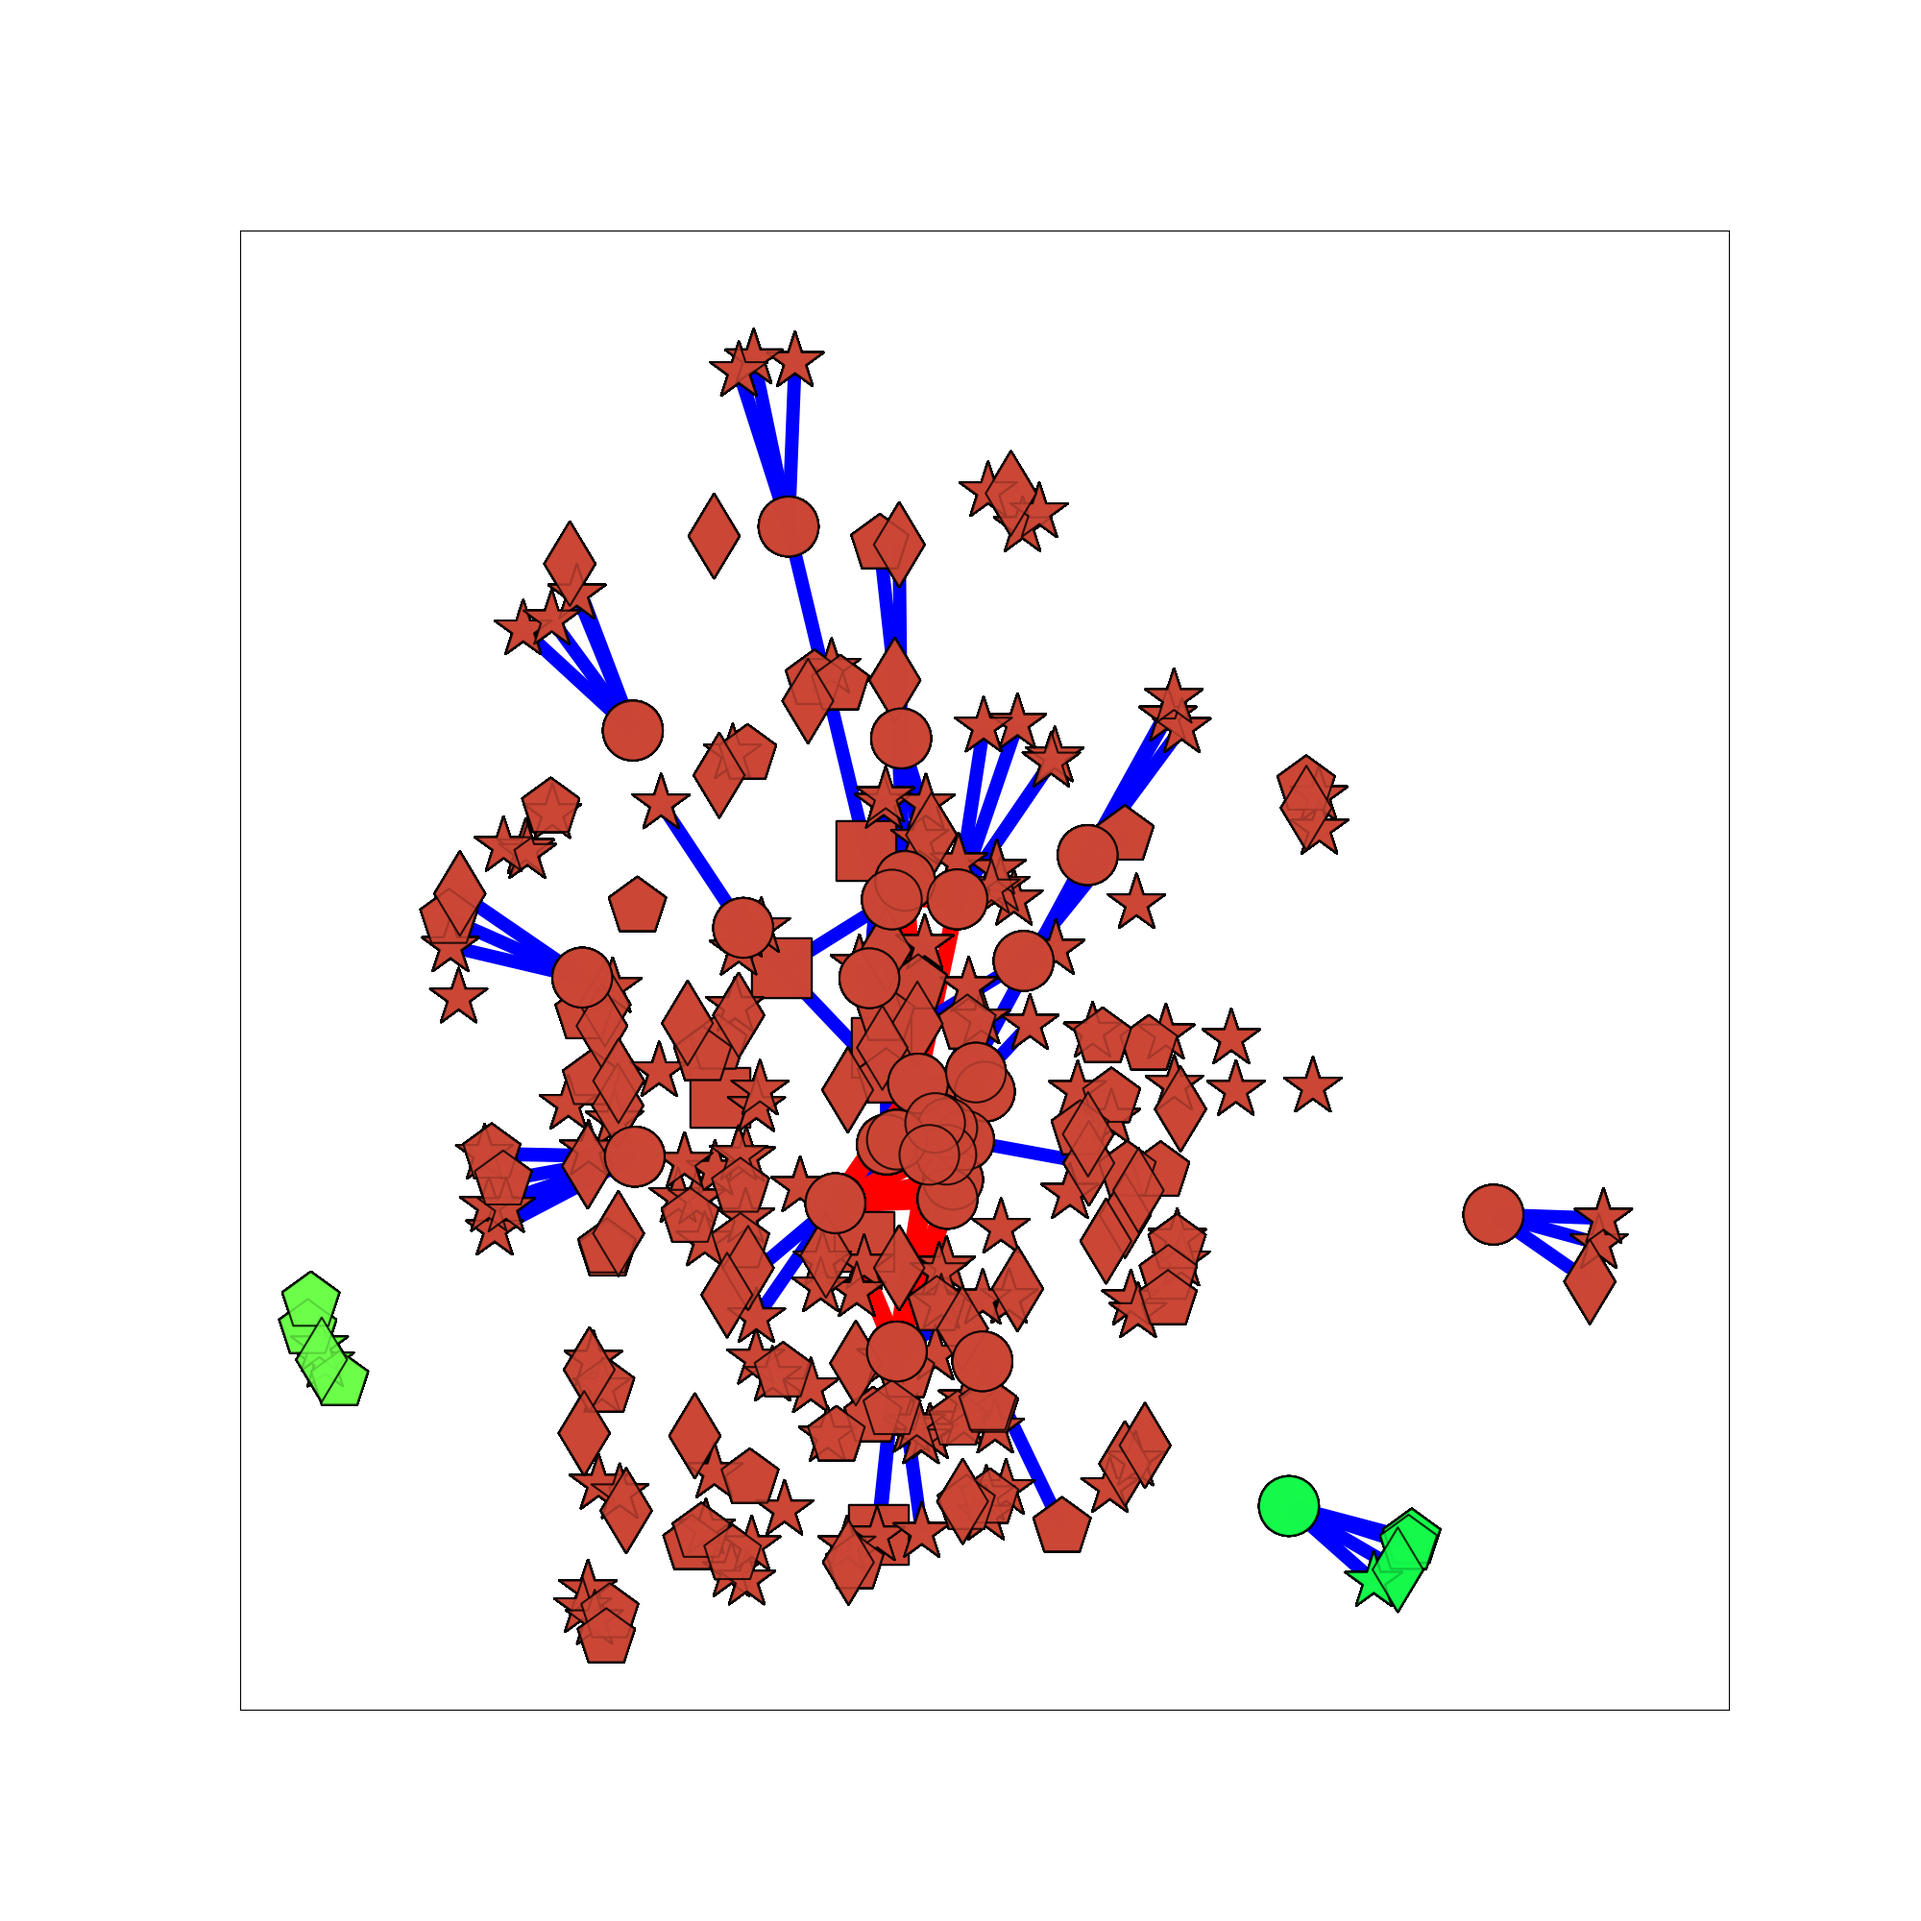
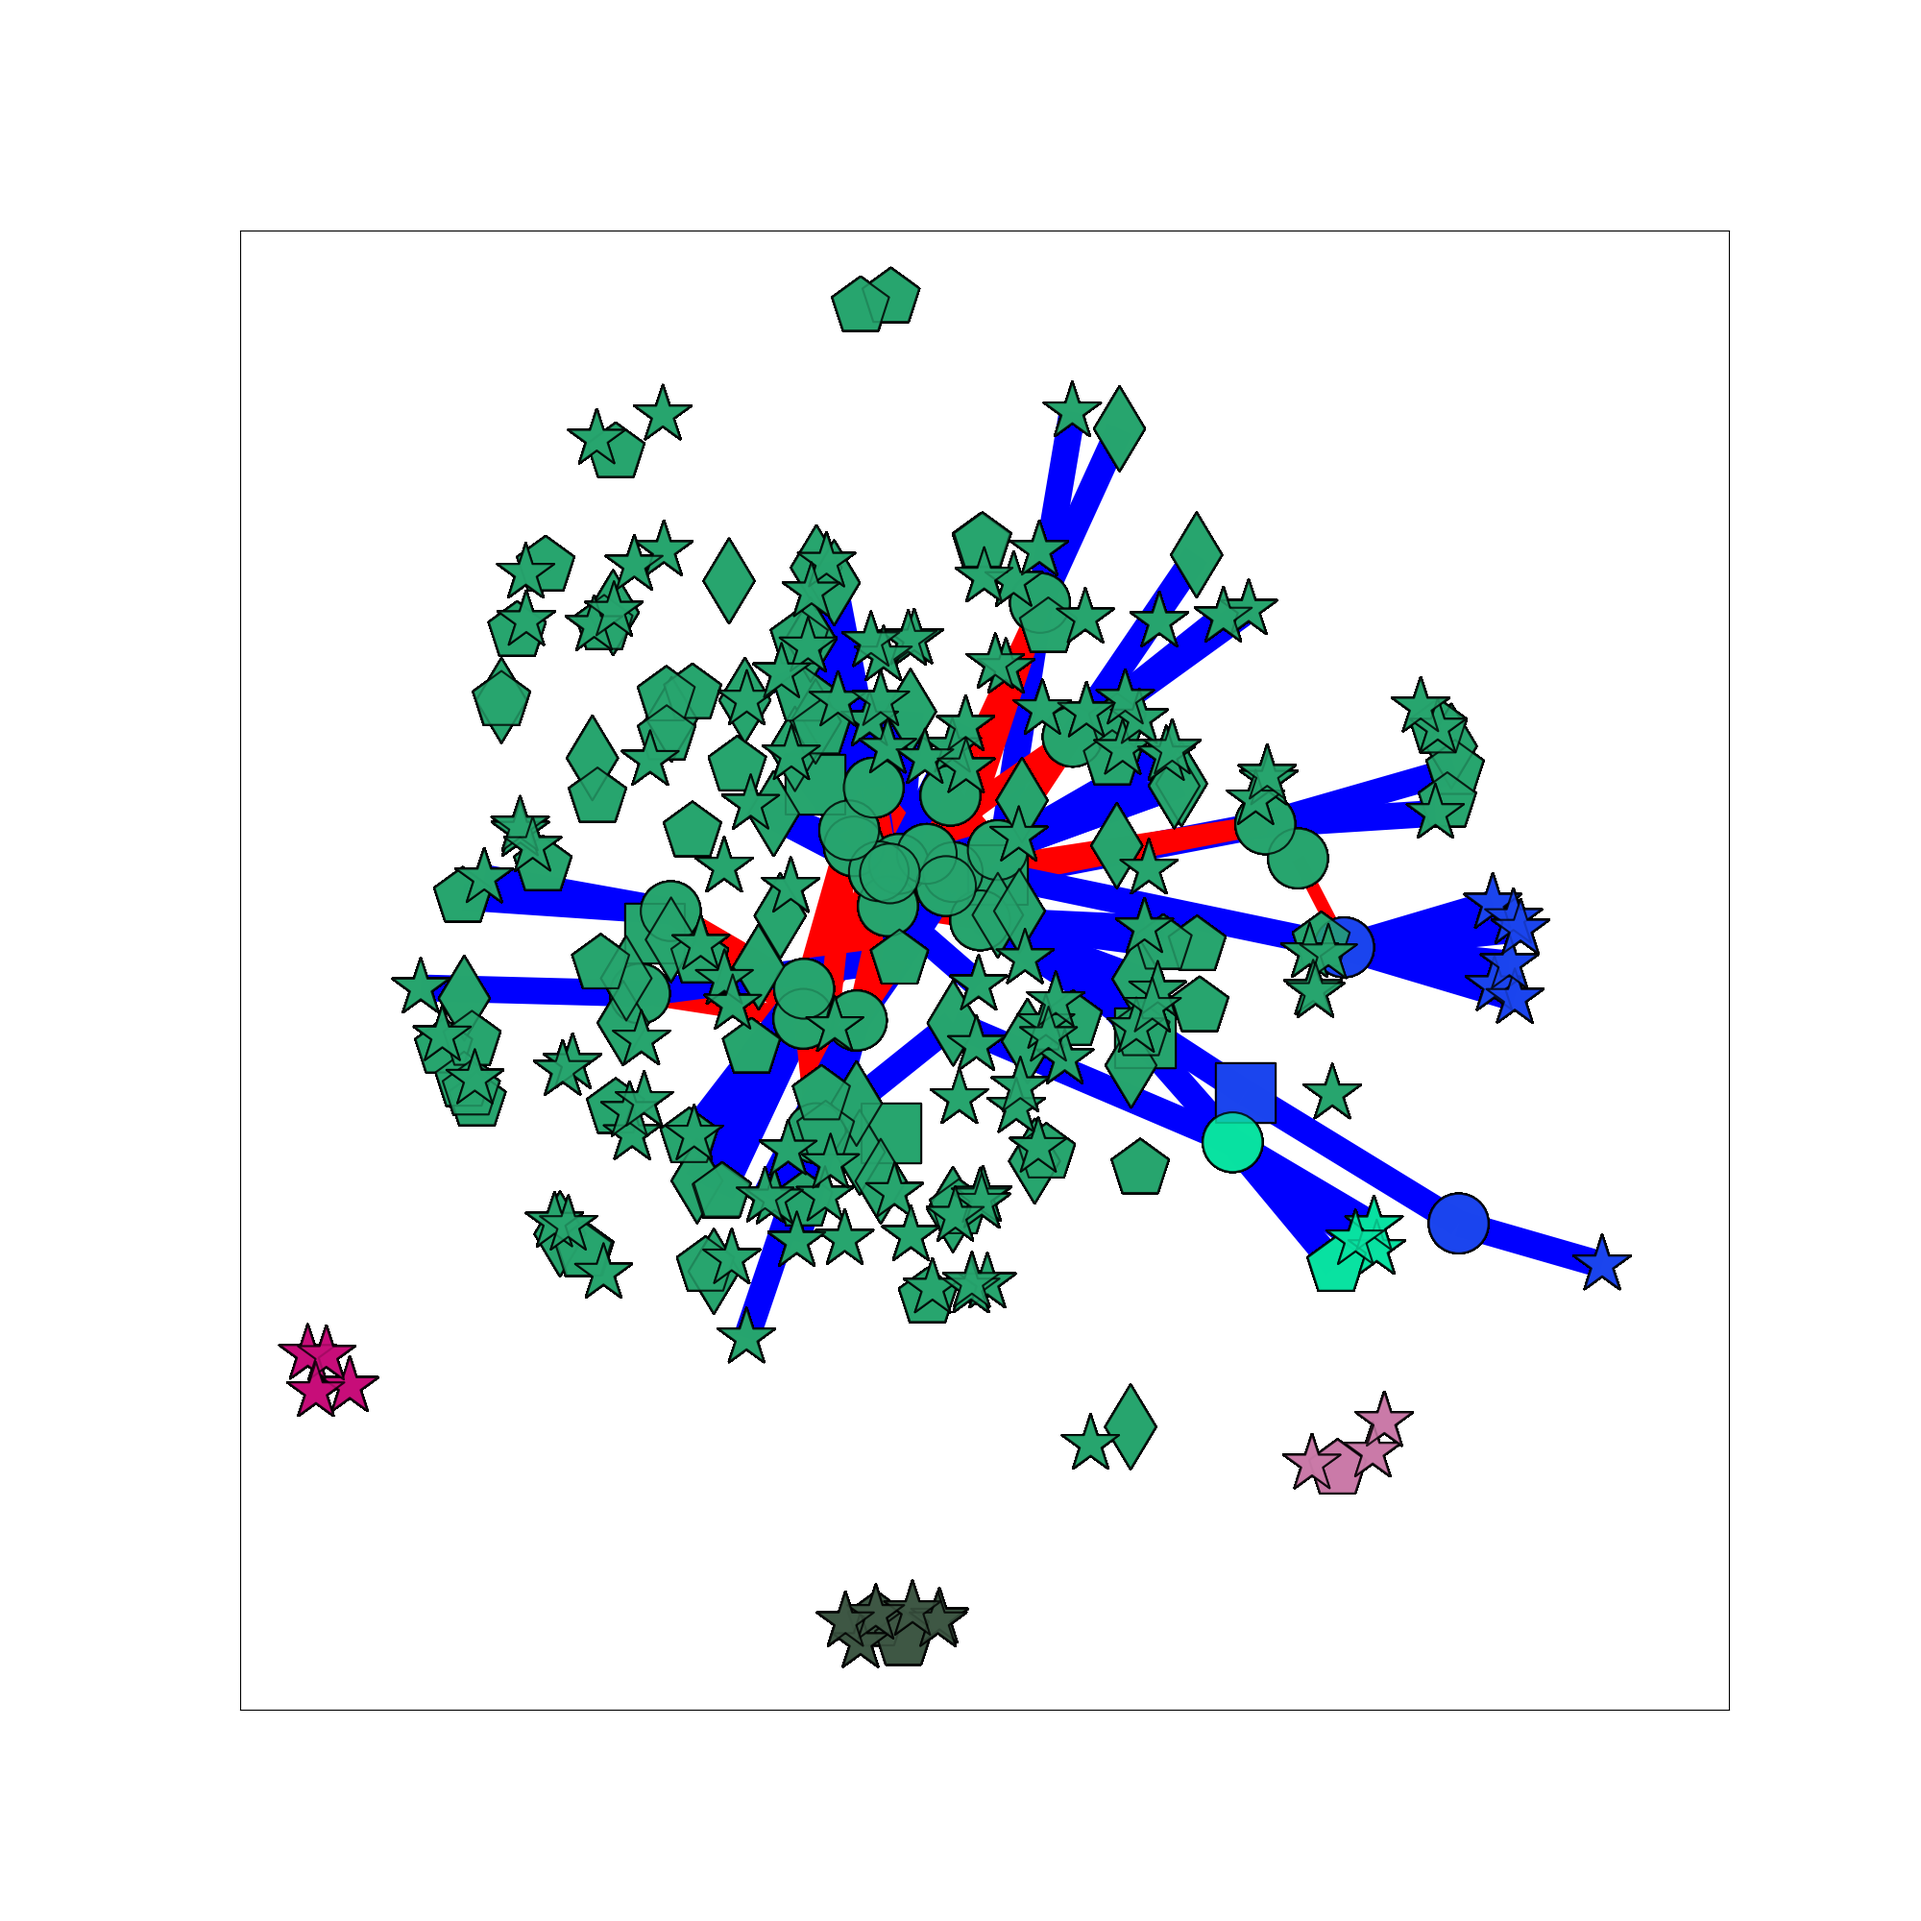
run simulation again, with different parameters.

Changed region(s): [[0.186, 0.124, 0.868, 0.868], [0.651, 0.713, 0.744, 0.837], [0.124, 0.651, 0.217, 0.744]]

diff --git a/main.py b/main.py
@@ -38,9 +38,9 @@ def run(_name: str, _graph_kwargs: dict, _clustering_kwargs: dict, _draw_kwargs:
 if __name__ == '__main__':
     # set the parameters for the graph.
     print_info = True
-    graph_kwargs = {'A': 10, 'size': 2000, 'color': '#1f78b4', 'distance_threshold': 0.5}
+    graph_kwargs = {'A': 10, 'size': 2000, 'color': '#1f78b4', 'distance_threshold': 0.6}
     # set the parameters for the clustering.
-    clustering_kwargs = {'method': 'louvain', 'resolution': 0.1}
+    clustering_kwargs = {'method': 'louvain', 'resolution': 0.15}
     # set the parameters for the drawing.
     draw_kwargs = {'save': True, 'method': 'louvain', 'shown_percentage': 0.3}
 

diff --git a/functions.py b/functions.py
@@ -82,7 +82,7 @@ def make_graph(name, **kwargs):
 
     # add the blue edges to the graph.
     for j in range(len(targets)):
-        G.add_edge(ids[j], targets[j], weight=A, color='blue')  # add the blue edges with a weight of A.
+        G.add_edge(ids[j], targets[j], weight=2 * A, color='blue')  # add the blue edges with a weight of A.
 
     # add the yellow edges to the graph.
     for i in range(len(paper_ids)):
